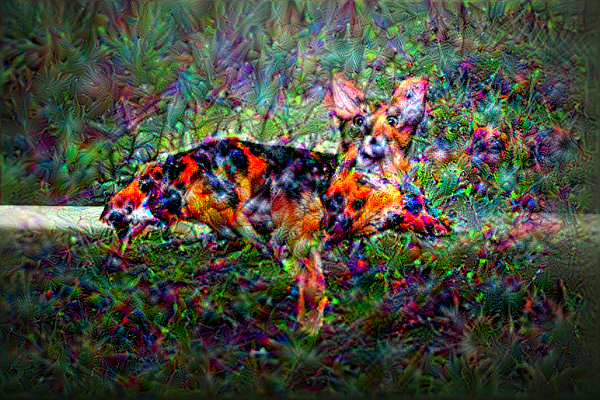
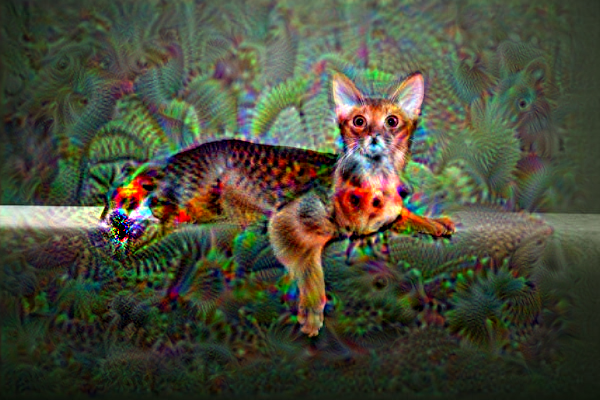
added photo input stuff

diff --git a/new_dream.py b/new_dream.py
@@ -9,15 +9,25 @@ e.g.:
 python deep_dream.py img/mypic.jpg results/dream
 ```
 '''
-
-#removing all the command-line stuff
+from __future__ import print_function
 
 from keras.preprocessing.image import load_img, img_to_array
 import numpy as np
 import scipy
+import argparse
 
 from keras.applications import inception_v3
 from keras import backend as K
+
+parser = argparse.ArgumentParser(description='Deep Dreams with Keras.')
+parser.add_argument('base_image_path', metavar='base', type=str,
+                    help='Path to the image to transform.')
+parser.add_argument('result_prefix', metavar='res_prefix', type=str,
+                    help='Prefix for the saved results.')
+
+args = parser.parse_args()
+base_image_path = args.base_image_path
+result_prefix = args.result_prefix
 
 # These are the names of the layers
 # for which we try to maximize activation,
@@ -26,26 +36,13 @@ from keras import backend as K
 # You can tweak these setting to obtain new visual effects.
 settings = {
     'features': {
-        'mixed2': 0.5,
-        'mixed3': 1.,
-        'mixed4': 1.,
-        'mixed5': 1.,
-        'mixed6': 0.5,
+        'mixed2': 0.2,
+        'mixed3': 0.5,
+        'mixed4': 2.,
+        'mixed5': 1.5,
     },
 }
-# ['mixed0',
-#  'mixed1',
-#  'mixed2',
-#  'mixed3',
-#  'mixed4',
-#  'mixed5',
-#  'mixed6',
-#  'mixed7',
-#  'mixed8',
-#  'mixed9_0',
-#  'mixed9',
-#  'mixed9_1',
-#  'mixed10']
+
 
 def preprocess_image(image_path):
     # Util function to open, resize and format pictures
@@ -74,17 +71,13 @@ K.set_learning_phase(0)
 
 # Build the InceptionV3 network with our placeholder.
 # The model will be loaded with pre-trained ImageNet weights.
-model = inception_v3.InceptionV3(weights='imagenet',include_top=False)
+model = inception_v3.InceptionV3(weights='imagenet',
+                                 include_top=False)
 dream = model.input
 print('Model loaded.')
 
 # Get the symbolic outputs of each "key" layer (we gave them unique names).
 layer_dict = dict([(layer.name, layer) for layer in model.layers])
-
-
-
-###If you change the settings, this is where you have to go back to...
-
 
 # Define the loss.
 loss = K.variable(0.)
@@ -103,8 +96,6 @@ for layer_name in settings['features']:
 # Compute the gradients of the dream wrt the loss.
 grads = K.gradients(loss, dream)[0]
 # Normalize gradients.
-#grads /= K.maximum(K.mean(K.abs(grads)), 1e-7)
-#newer version of code
 grads /= K.maximum(K.mean(K.abs(grads)), K.epsilon())
 
 # Set up function to retrieve the value
@@ -169,22 +160,10 @@ and compare the result to the (resized) original image.
 
 # Playing with these hyperparameters will also allow you to achieve new effects
 step = 0.01  # Gradient ascent step size
-num_octave = 4  # Number of scales at which to run gradient ascent
+num_octave = 3  # Number of scales at which to run gradient ascent
 octave_scale = 1.4  # Size ratio between scales
-iterations = 100  # Number of ascent steps per scale
+iterations = 20  # Number of ascent steps per scale
 max_loss = 10.
-
-
-#I think this is where I need to replace the path and stuff, that would be the args
-
-
-directory_path = 'C:/Users/M543015/Desktop/GitHub/deeplearning/images/images/'
-file_name = 'Abyssinian_1.jpg'
-# directory_path = 'C:/Users/M543015/Desktop/GitHub/deeplearning/'
-# file_name = 'noise.png'
-result_prefix = 'C:/Users/M543015/Desktop/GitHub/deeplearning/testing'
-base_image_path = directory_path+file_name
-
 
 img = preprocess_image(base_image_path)
 if K.image_data_format() == 'channels_first':
@@ -214,48 +193,3 @@ for shape in successive_shapes:
     shrunk_original_img = resize_img(original_img, shape)
 
 save_img(img, fname=result_prefix + '.png')
-
-
-
-import os
-directory_path = 'C:/Users/M543015/Desktop/GitHub/deeplearning/images/images/'
-
-
-#better approach would be to pull in list of images, then figure it out myself
-#all capital letters are cats
-
-cats = [name for name in os.listdir(directory_path) if "jpg" in name and name[0].isupper()]
-breeds = []
-pairs = []
-for cat in cats:
-    breed = "_".join(cat.split("_")[:-1])
-    if breed not in breeds:
-        breeds.append(breed)
-
-    pairs.append((cat,len(breeds)-1))
-
-images, labels = zip(*[(preprocess_image(directory_path+pair[0]),pair[1]) for pair in pairs])
-
-
-
-"""
-
-(X_train, y_train), (X_test, y_test) = cifar10.load_data()
-for layer in mo
-
-import pickle
-test = pickle.load()
-
-
-
-test = np.asarray(inimages, dtype=float)
-
-b = np.asarray(a, dtype=float)
-#to get the same shape do.
-b = b.reshape(-1, len(b)) 
-#to just get one dimmension do. 
-b = np.asarray(a, dtype=float).reshape(len(a))
-
-
-
-"""
